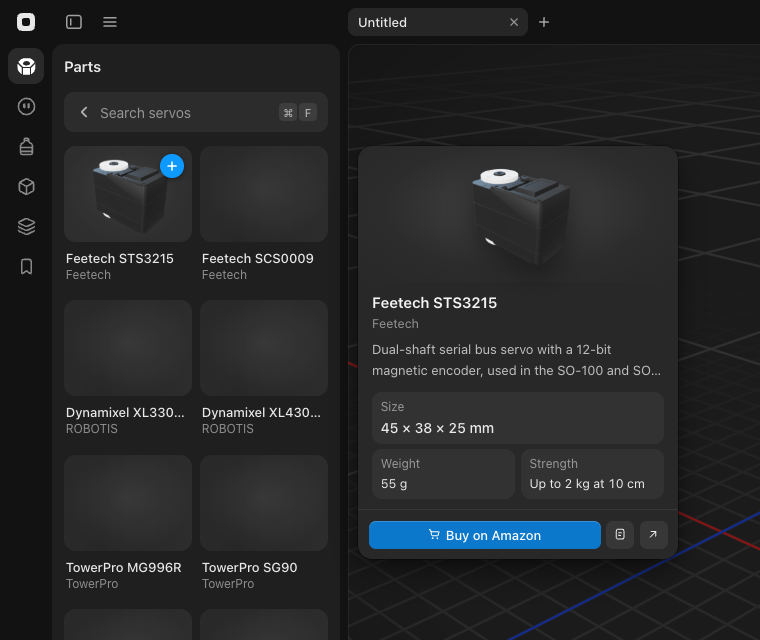
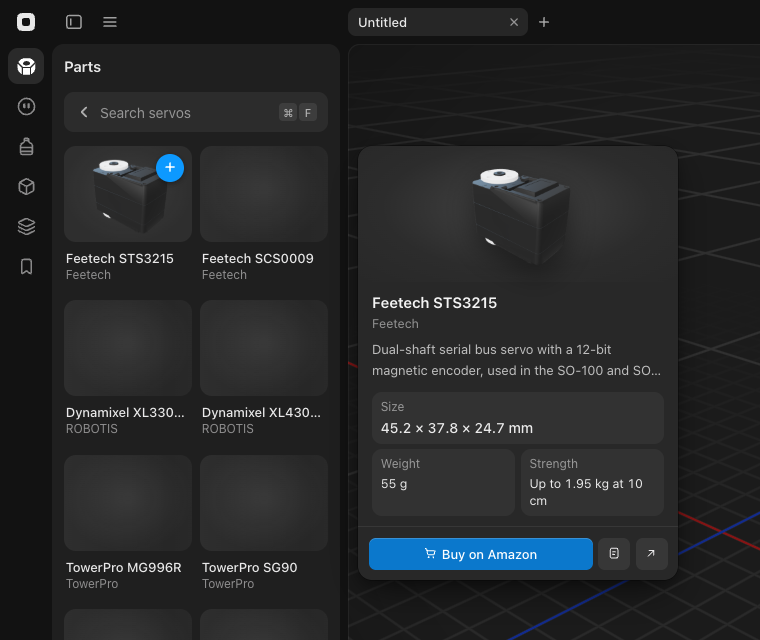
Show every size in one format, through one helper
A part's size was built by hand in eight places with four precisions,
so a catalog part's Key specs said 45 × 38 × 25 mm where All specs said
45.22 × 37.8 × 24.72 mm, and some sizes muted their mm while others
didn't. Every size now goes through sizeLabel/sizeFigures
(src/utils/size.ts): tenths under 100 mm without a trailing zero, then
whole millimeters. On screen it's SizeLine, with mm muted. The rule
joins weights and durations in the copy guide (§3b-15), and the Parts
hover card screenshot is recaptured with the new figures.

diff --git a/src/utils/printReport.ts b/src/utils/printReport.ts
@@ -1,6 +1,7 @@
 import { MATERIAL_DENSITY } from '../data/supplies';
 import type { PrinterSetup } from '../data/printers';
 import { bedOf, bedSizeText } from '../print/bed';
+import { sizeLabel } from './size';
 import { buildPrintPlan, choosePose, type PrintCheck, type PrintPlan } from '../print/plan';
 import type { MeshMeasure } from '../three/meshMeasure';
 import { PRINT_RULES, printHours, type PrintShape, type Vec3 } from '../three/printability';
@@ -38,9 +39,6 @@ export interface PrintReport {
   plan: PrintPlan;
   totals: { grams: number; supportG: number; hours: number; failing: number };
 }
-
-export const fmtSize = (size: number[]) =>
-  size.map((v) => (v < 10 ? String(Math.round(v * 10) / 10) : String(Math.round(v)))).join(' × ');
 
 export interface PartShape {
   check: PrintShape;
@@ -258,9 +256,8 @@ export function printReportText(r: PrintReport): string {
   lines.push(r.totals.failing ? `Issues on ${plural(r.totals.failing, 'part')}:` : 'Every part fits and prints.');
 
   for (const p of r.parts) {
-    const s = fmtSize(p.check.size);
     const turned = p.check.yaw && p.check.yaw % 90 ? `, turned ${p.check.yaw}° across the plate` : '';
-    const head = `- ${p.id} (${p.material}, ${weight(p.grams)}${p.supportG >= 1 ? ` + ${weight(p.supportG)} support` : ''}, ${s} mm, ${faceText(p.check)}${turned})`;
+    const head = `- ${p.id} (${p.material}, ${weight(p.grams)}${p.supportG >= 1 ? ` + ${weight(p.supportG)} support` : ''}, ${sizeLabel(p.check.size)}, ${faceText(p.check)}${turned})`;
 
     const said = [...p.issues, ...p.notes];
 

diff --git a/src/components/PartDetails.tsx b/src/components/PartDetails.tsx
@@ -4,13 +4,12 @@ import { COMPONENT_BY_ID, ComponentInfo, SpecValue, specLines } from '../data/co
 import { isSourcedId } from '../data/sourcedItems';
 import { usePartThumbnail } from '../three/partThumbnails';
 import { keySpecs } from '../utils/keySpecs';
+import { sizeFigures } from '../utils/size';
 import { MetaLine, PreviewImage, Tooltip, ArrowUpRightIcon, CartIcon, FileIcon } from '../design-system';
 
-const fmt = (v: number) => String(Math.round(v * 100) / 100);
-
-export const SizeLine: React.FC<{ w: number; h: number; d: number }> = ({ w, h, d }) => (
-  <span className="tabular text-white/85">
-    {fmt(w)} × {fmt(h)} × {fmt(d)}
+export const SizeLine: React.FC<{ mm: readonly number[] }> = ({ mm }) => (
+  <span className="tabular">
+    {sizeFigures(mm)}
     <span className="text-white/50"> mm</span>
   </span>
 );
@@ -106,7 +105,7 @@ export const SpecText: React.FC<{ value: SpecValue }> = ({ value }) => (
 export const SpecRows: React.FC<{ c: ComponentInfo; d: PartDimensions }> = ({ c, d }) => (
   <dl className="-my-[5px]">
     <SpecRow label="Size">
-      <SizeLine w={d.width} h={d.height} d={d.depth} />
+      <SizeLine mm={[d.width, d.height, d.depth]} />
     </SpecRow>
     {c.specs.map(([label, value]) => (
       <SpecRow key={label} label={label}>

diff --git a/src/utils/size.test.ts b/src/utils/size.test.ts
@@ -1,0 +1,30 @@
+import { describe, expect, it } from 'vitest';
+import { lengthFigure, sizeFigures, sizeLabel } from './size';
+
+describe('size', () => {
+  it('shows tenths of a millimeter under 100 mm, without a trailing zero', () => {
+    expect(lengthFigure(3.46)).toBe('3.5');
+    expect(lengthFigure(14.9)).toBe('14.9');
+    expect(lengthFigure(48)).toBe('48');
+    expect(lengthFigure(22.86)).toBe('22.9');
+    expect(lengthFigure(99.94)).toBe('99.9');
+  });
+
+  it('shows whole millimeters from 100 mm', () => {
+    expect(lengthFigure(99.96)).toBe('100');
+    expect(lengthFigure(312.4)).toBe('312');
+    expect(lengthFigure(1250.6)).toBe('1251');
+  });
+
+  it('never shows a positive length as 0, or a negative one', () => {
+    expect(lengthFigure(0.02)).toBe('0.02');
+    expect(lengthFigure(0.001)).toBe('0.01');
+    expect(lengthFigure(0)).toBe('0');
+    expect(lengthFigure(-4)).toBe('0');
+  });
+
+  it('joins a size with × and puts mm after the last figure', () => {
+    expect(sizeFigures([48, 18, 14.9])).toBe('48 × 18 × 14.9');
+    expect(sizeLabel([256, 256, 256])).toBe('256 × 256 × 256 mm');
+  });
+});

diff --git a/src/print/plan.ts b/src/print/plan.ts
@@ -3,6 +3,7 @@ import type { PrinterSetup } from '../data/printers';
 import { sameDirection, type PrintPose, type PrintShape, type Vec3 } from '../three/printability';
 import type { PartPrint, PrintMaterial } from '../types/robotics';
 import { bedSizeText, fitOnBed, type Bed } from './bed';
+import { sizeLabel } from '../utils/size';
 import { packPlates, type PackItem } from './pack';
 
 export interface PrintCheck {
@@ -71,7 +72,7 @@ function splitNote(size: Vec3, bed: Bed) {
   const sorted = [...size].sort((a, b) => b - a);
   const pieces = Math.max(2, Math.ceil(sorted[0] / (Math.max(bed.width, bed.depth, bed.height) * 0.94)));
 
-  return `${sorted.map((v) => Math.round(v)).join(' × ')} mm is larger than the ${bed.name} plate (${bedSizeText(bed)}). Split it into ${pieces} pieces along its longest side, joined with dowels or screws.`;
+  return `${sizeLabel(sorted)} is larger than the ${bed.name} plate (${bedSizeText(bed)}). Split it into ${pieces} pieces along its longest side, joined with dowels or screws.`;
 }
 
 export function choosePose(shape: PrintShape, bed: Bed, print?: PartPrint): PrintCheck {

diff --git a/src/utils/bomFormat.ts b/src/utils/bomFormat.ts
@@ -3,6 +3,7 @@ import { currencyNote, type Money, scaledEntry } from './currency';
 import { currentMoney } from './currencyStore';
 import { plural } from '../../electron/plural.mjs';
 import { weight } from './weight';
+import { sizeFigures } from './size';
 
 const STATUS_LABEL: Record<PriceStatus, string> = { checked: 'Checked', stale: 'Stale', unchecked: 'Not checked' };
 const LINK_TYPE: Record<BomLine['urlKind'], string> = { product: 'Listing', search: 'Search', none: '' };
@@ -119,9 +120,7 @@ function markdownPrinted(bom: Bom): string[] {
     '',
     '| Part | Material | Size (mm) | Filament |',
     '|---|---|---|---:|',
-    ...bom.printed.map(
-      (p) => `| ${p.name} | ${p.material} | ${p.size.map((v) => v.toFixed(0)).join(' × ')} | ${weight(p.grams)} |`,
-    ),
+    ...bom.printed.map((p) => `| ${p.name} | ${p.material} | ${sizeFigures(p.size)} | ${weight(p.grams)} |`),
     '',
     `Filament estimates assume 2 walls, 4 top/bottom layers and the project’s infill; spools include estimated supports and a ${Math.round(FILAMENT_MARGIN * 100)}% margin for brims and reprints.`,
     '',

diff --git a/src/components/inspector/MultiInspector.tsx b/src/components/inspector/MultiInspector.tsx
@@ -21,13 +21,12 @@ import {
   UngroupIcon,
   UnionIcon,
 } from '../../design-system';
+import { SizeLine } from '../PartDetails';
 import { GroupName } from './GroupName';
 import { MirrorButton } from './MirrorButton';
 import { QuarterTurns } from './QuarterTurns';
 import { MATERIALS, type InspectorProps } from './types';
 import { keyFor } from '../../app/shortcuts';
-
-const fmt = (v: number) => String(Math.round(v * 10) / 10);
 
 const isWholeGroup = (selectedParts: ScenePart[], parts: ScenePart[]): boolean => {
   const base = selectedParts[0];
@@ -114,12 +113,7 @@ const MultiHeader: React.FC<InspectorProps & { wholeGroup: boolean; size: number
       </div>
       <MetaLine
         className="text-[12.5px] text-white/50 tabular mt-0.5"
-        items={[
-          wholeGroup && `${selectedParts.length} parts`,
-          <>
-            {fmt(size[0])} × {fmt(size[1])} × {fmt(size[2])} <span className="text-white/50">mm</span>
-          </>,
-        ]}
+        items={[wholeGroup && `${selectedParts.length} parts`, <SizeLine mm={size} />]}
       />
     </div>
   );

diff --git a/src/utils/keySpecs.ts b/src/utils/keySpecs.ts
@@ -1,5 +1,6 @@
 import { ComponentInfo, specLines } from '../data/components';
 import { weight } from './weight';
+import { sizeLabel } from './size';
 
 export interface KeySpec {
   label: string;
@@ -54,8 +55,6 @@ const widest = (v: string) => {
 
   return m ? m[m.length - 1].replace(/\s*mm/, ' mm') : undefined;
 };
-
-const round = (v: number) => (v < 10 ? Math.round(v * 10) / 10 : Math.round(v));
 
 type Add = (label: string, value: string | undefined) => void;
 
@@ -139,9 +138,7 @@ const GROUP_SPECS: Partial<Record<ComponentInfo['group'], (c: ComponentInfo, add
   };
 
 export function keySpecs(c: ComponentInfo, size: { width: number; height: number; depth: number }): KeySpec[] {
-  const out: KeySpec[] = [
-    { label: 'Size', value: `${round(size.width)} × ${round(size.height)} × ${round(size.depth)} mm` },
-  ];
+  const out: KeySpec[] = [{ label: 'Size', value: sizeLabel([size.width, size.height, size.depth]) }];
   const weight = spec(c, 'Weight');
 
   if (weight) out.push({ label: 'Weight', value: plainValue(weight) });

diff --git a/src/components/layers/LayersView.tsx b/src/components/layers/LayersView.tsx
@@ -4,6 +4,7 @@ import type { ScenePart } from '../../types/robotics';
 import { GroupRow, PartRow } from './LayerItems';
 import { layerRows, layersTitle, overallSize } from './layerRows';
 import { useRevealSelection } from './useRevealSelection';
+import { SizeLine } from '../PartDetails';
 import { keyFor } from '../../app/shortcuts';
 
 export interface LayersViewProps {
@@ -37,11 +38,11 @@ const ReferenceImagesToggle: React.FC<{ props: LayersViewProps }> = ({ props }) 
   );
 };
 
-const SizeFooter: React.FC<{ size: string }> = ({ size }) => (
+const SizeFooter: React.FC<{ size: number[] }> = ({ size }) => (
   <div className="h-[32px] shrink-0 px-[12px] flex items-center justify-between border-t border-white/[0.06] text-[12.5px] select-none">
     <span className="text-white/50">Overall size</span>
-    <span className="text-white/70 tabular">
-      {size} <span className="text-white/50">mm</span>
+    <span className="text-white/70">
+      <SizeLine mm={size} />
     </span>
   </div>
 );

diff --git a/src/components/print/PrintedSection.tsx b/src/components/print/PrintedSection.tsx
@@ -1,7 +1,8 @@
 import React from 'react';
 import { MetaLine, Section } from '../../design-system';
 import type { PrintMaterial, ProjectSettings } from '../../types/robotics';
-import { type PrintReport, fmtSize } from '../../utils/printReport';
+import type { PrintReport } from '../../utils/printReport';
+import { SizeLine } from '../PartDetails';
 import { duration } from '../../utils/duration';
 import { weight } from '../../utils/weight';
 
@@ -35,7 +36,7 @@ const PrintedRow: React.FC<{ part: PrintedPart; material: PrintMaterial; onSelec
         <MetaLine
           className="text-[12px] text-white/50 tabular-nums"
           items={[
-            `${fmtSize(p.check.size)} mm`,
+            <SizeLine mm={p.check.size} />,
             duration(p.hours * 3600, 'min'),
             p.check.fits && `Plate ${p.plate}`,
             p.material !== material && p.material,

diff --git a/src/components/library/ModelTile.tsx b/src/components/library/ModelTile.tsx
@@ -1,10 +1,9 @@
 import React from 'react';
 import { usePartsThumbnail } from '../../three/partThumbnails';
 import type { CustomModelDefinition } from '../../types/robotics';
+import { SizeLine } from '../PartDetails';
 import { ModelDetails, modelParts } from './details';
 import { Tile } from './Tile';
-
-const fmt = (v: number) => String(Math.round(v * 10) / 10);
 
 const modelKey = (m: CustomModelDefinition) => `model:${m.id}:${m.createdAt}`;
 
@@ -22,12 +21,7 @@ export const ModelTile: React.FC<{
   return (
     <Tile
       name={model.name}
-      meta={
-        <>
-          {fmt(d.width)} × {fmt(d.height)} × {fmt(d.depth)}
-          <span className="text-white/50"> mm</span>
-        </>
-      }
+      meta={<SizeLine mm={[d.width, d.height, d.depth]} />}
       thumb={thumb}
       renaming={renaming}
       onInsert={onInsert}

diff --git a/src/guide/doc/guideFrontPages.ts b/src/guide/doc/guideFrontPages.ts
@@ -1,11 +1,12 @@
 import type { GuideItem } from '../guideTypes';
 import { toolIcon } from './guideIcons';
+import { sizeFigures } from '../../utils/size';
 import { plural } from '../../../electron/plural.mjs';
 import { CONTENT_BOTTOM, CONTENT_TOP, esc, imageTag, mm, type GuideDoc } from './guideHtml';
 
 export function coverBody({ plan, drawings, meta }: GuideDoc): string {
   const size = meta.sizeMm
-    ? `<div class="fact"><div class="v">${meta.sizeMm.map((v) => Math.round(v)).join(' × ')}<small>mm</small></div><div class="k">Size</div></div>`
+    ? `<div class="fact"><div class="v">${sizeFigures(meta.sizeMm)}<small>mm</small></div><div class="k">Size</div></div>`
     : '';
   const parts = plan.items.reduce((n, i) => n + i.qty, 0);
   const steps = plan.steps.filter((s) => s.moduleId === 'main').length;

diff --git a/src/components/agent/PartPreviewCard.tsx b/src/components/agent/PartPreviewCard.tsx
@@ -3,6 +3,7 @@ import { mountPartPreview, nextPreviewOrder } from '../../three/partPreview';
 import { loadPartMeshes } from '../../three/thumbnailRender';
 import type { ScenePart } from '../../types/robotics';
 import { overallSize } from '../layers/layerRows';
+import { sizeLabel } from '../../utils/size';
 import { Header } from '../PartDetails';
 
 export const PART_PREVIEW_WIDTH = 280;
@@ -67,7 +68,7 @@ export const PartPreviewCard: React.FC<{ parts: ScenePart[]; panScroll: boolean 
           className={`absolute inset-0 cursor-grab active:cursor-grabbing ${ready ? 'animate-fade-in' : ''}`}
         />
       </div>
-      <Header title={titleOf(shown)} subtitle={size ? `${size} mm` : ''} />
+      <Header title={titleOf(shown)} subtitle={size ? sizeLabel(size) : ''} />
     </div>
   );
 };
